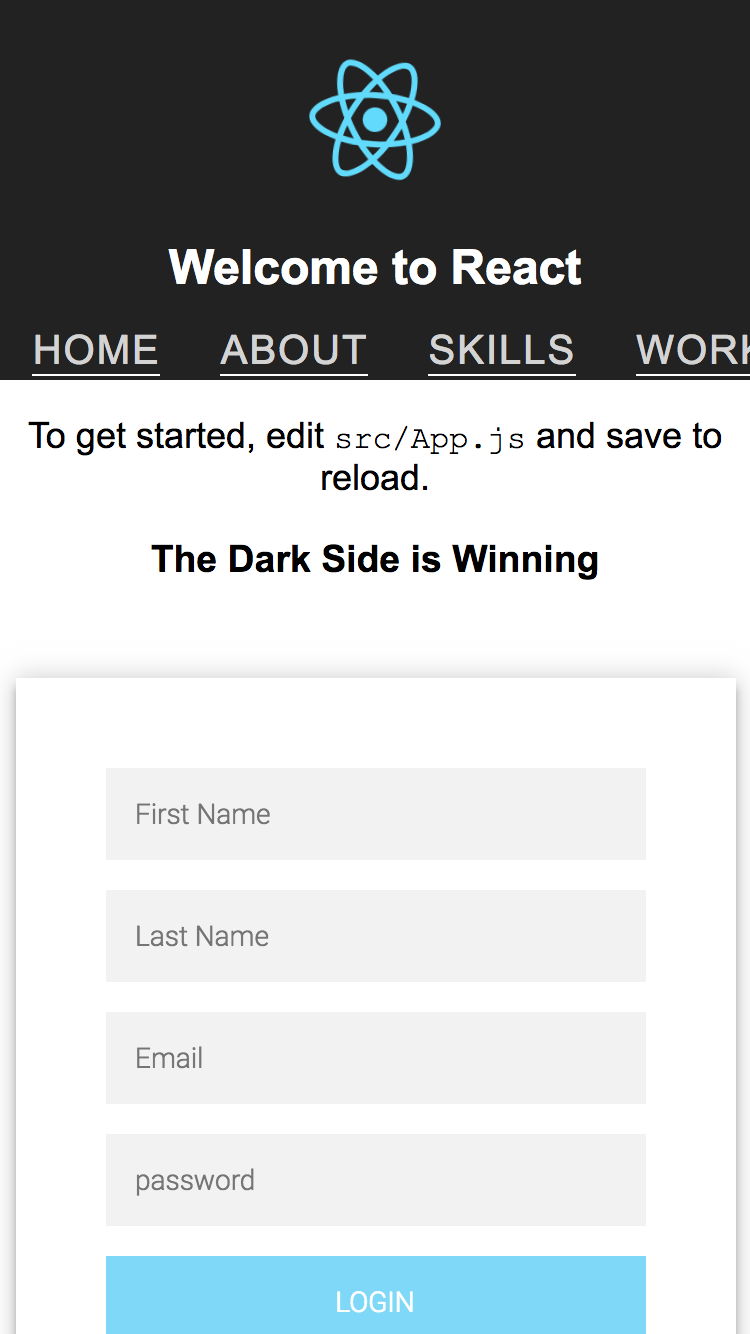
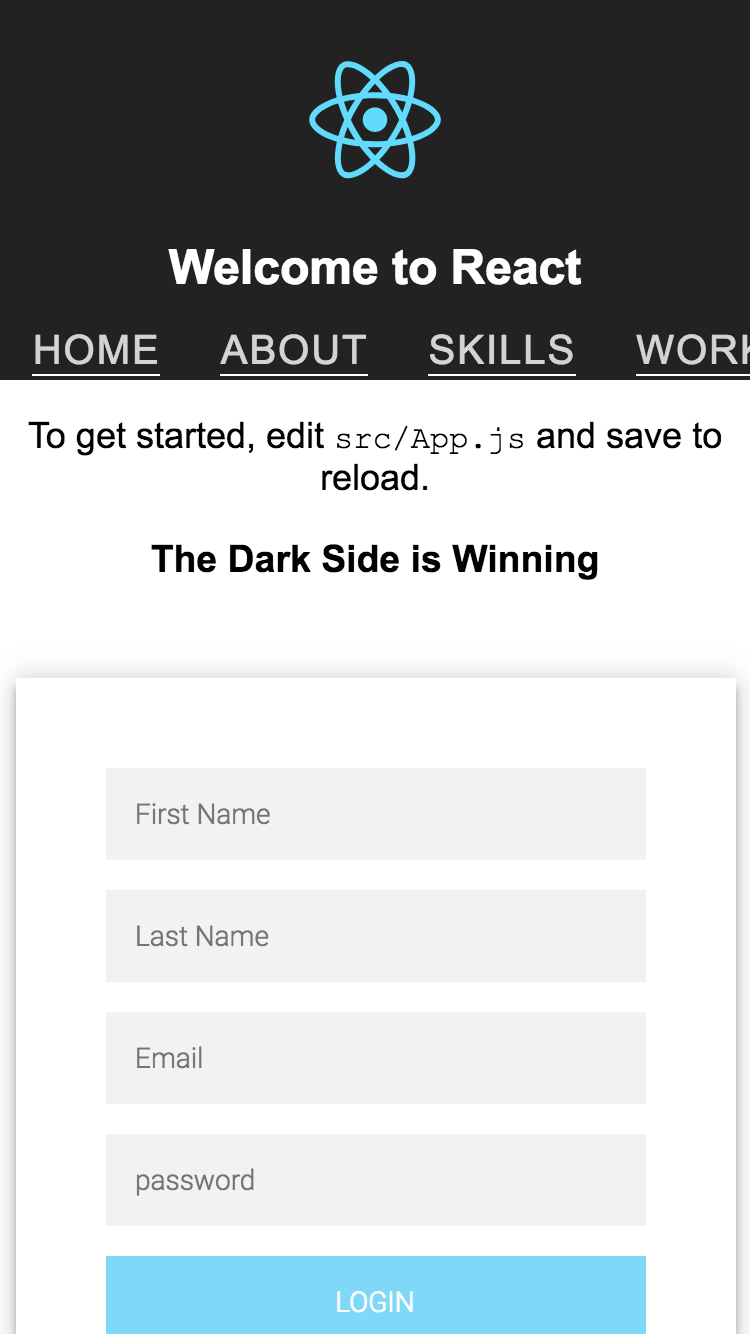
Mixel match fix error, save diff

diff --git a/src/utils/diff-images.js b/src/utils/diff-images.js
@@ -4,24 +4,39 @@ const path = require('path');
 const { PNG } = require('pngjs');
 
 const compareScreenshots = (file, dirname) => new Promise(resolve => {
-  const doneReading = () => {
+  const inputPathName = path.resolve(dirname, `${file}.screen.png`);
+  const testPathName = path.resolve(dirname, `${file}.test-screen.png`);
+  const img1 = fs.createReadStream(inputPathName).pipe(new PNG()).on('parsed', doneReading);
+  const img2 = fs.createReadStream(testPathName).pipe(new PNG()).on('parsed', doneReading);
+  let filesRead = 0;
+
+  function doneReading() {
+    if (++filesRead < 2) {
+      return;
+    }
+
     expect(img1.width).toBe(img2.width);
     expect(img1.height).toBe(img2.height);
+
+    const diff = new PNG({ width: img1.width, height: img1.height });
 
     const numDiffPixels = pixelmatch(
       img1.data,
       img2.data,
-      null,
+      diff.data,
       img1.width,
       img2.width,
       { threshold: 0.1 }
     )
-    expect(numDiffPixels).toBe(0);
-    resolve();
-  };
 
-  const img1 = fs.createReadStream(path.resolve(dirname, `${file}.screen.png`)).pipe(new PNG());
-  const img2 = fs.createReadStream(path.resolve(dirname, `${file}.test-screen.png`)).pipe(new PNG()).on('parsed', doneReading);
+    if (numDiffPixels !== 0) {
+      const diffPathName = path.resolve(dirname, `${file}.diff-screen.png`);
+      diff.pack().pipe(fs.createWriteStream(diffPathName)).on('finish', () => resolve());
+    } else {
+      expect(numDiffPixels).toBe(0);
+      resolve();
+    }
+  };
 });
 
 const makeScreenshot = (page, file, dirname) => page.screenshot({ path: path.resolve(dirname, `${file}.test-screen.png`) });

diff --git a/src/components/App/App.pixel.test.js b/src/components/App/App.pixel.test.js
@@ -18,5 +18,5 @@ describe('screenshots are correct', () => {
   it('App', async () => {
     await makeScreenshot(page, 'App');
     await compareScreenshots('App');
-  });
+  }, 3000);
 });

diff --git a/src/components/App/App.css b/src/components/App/App.css
@@ -3,7 +3,7 @@
 }
 
 .App-logo {
-  animation: App-logo-spin infinite 20s linear;
+  /* animation: App-logo-spin infinite 20s linear; */
   height: 80px;
 }
 
